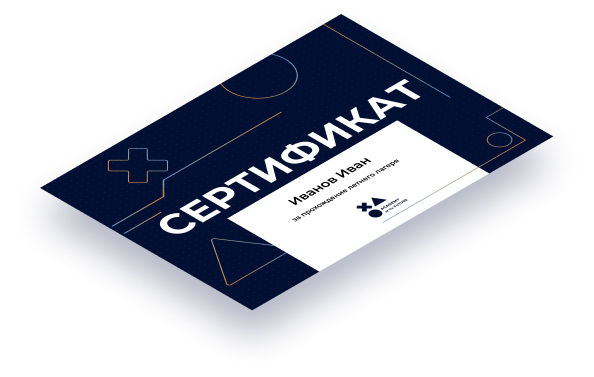
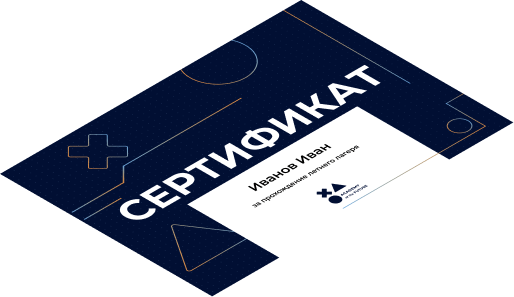
Finished section-2

diff --git a/index.html b/index.html
@@ -97,14 +97,47 @@
 
   <div class="section-2">
     <div class="container-2">
-      <div>
+      <div class="top-content">
         <img src="./img/owl-1.png" alt="">
-      </div>
-      <div>
 
+        <div class="list-section-2">
+          <ul>
+            <li>Программирование</li>
+            <li>Робототехника</li>
+            <li>3D-моделирование</li>
+            <li>Создание игр</li>
+            <li>Анимация</li>
+          </ul>
+        </div>
+        <div class="list-section-2">
+          <ul>
+            <li>Шахматы</li>
+            <li>Блогинг</li>
+            <li>Прогулки</li>
+            <li>Игровые активности</li>
+            <li>Английский язык</li>
+          </ul>
+        </div>
+
+      </div>
+      <div class="bottom-content">
+        <div class="certificate-image-shadow">
+          <img class="certificate-image" src="./img/certificate.png" alt="certificate-image">
+        </div>
+        <div class="certificate-text">
+          <div class="certificate-header-text">
+            Вручение сертификата
+          </div>
+          <div class="description-certificate-text">
+            о прохождении летней программы,
+            море позитивных впечатлений
+            и приобретении полезных IT-навыков
+          </div>
+        </div>
       </div>
     </div>
   </div>
+
   <div class="section-3">
 
   </div>

diff --git a/css/main.css b/css/main.css
@@ -155,8 +155,50 @@
 .container-2{
   width: 1220px;
   margin: 79px auto 0 auto;
-  display: flex;
+}
 
+.top-content{
+  display: flex;
+  list-style-image: url("../img/list-icon.svg");
+  justify-content: space-around;
+}
+
+.list-section-2{
+  margin-top: 20px;
+  line-height: 46px;
+}
+
+.bottom-content{
+  height: 297px;
+  display: flex;
+  justify-content: space-around;
+  margin-bottom: 50px;
+}
+
+.certificate-text{
+  margin: auto 0;
+}
+
+.certificate-header-text{
+  color: #00093C;
+  font-weight: bolder;
+  font-size: 36px;
+}
+
+.description-certificate-text{
+  color: black;
+  font-size: 20px;
+  line-height: 36px;
+  text-align: left;
+  width: 430px;
+}
+
+.certificate-image-shadow{
+  filter: drop-shadow(1px 26px 40px rgba(0, 9, 60, 0.3));
+}
+
+.certificate-image{
+  filter: drop-shadow(1px 4px 4px rgba(0, 0, 0, 0.25));
 }
 
 .footer-section{
